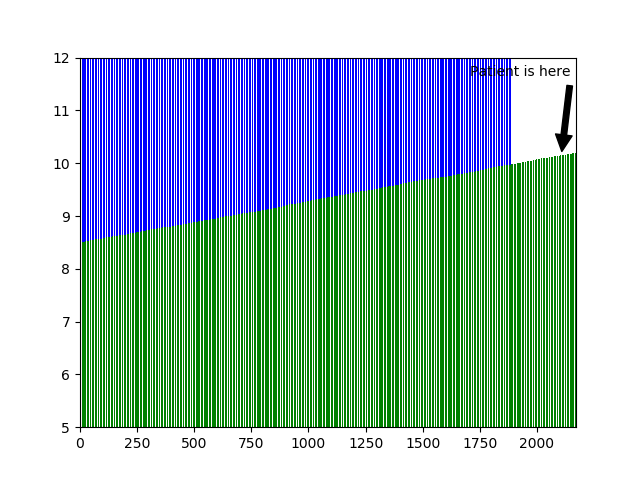
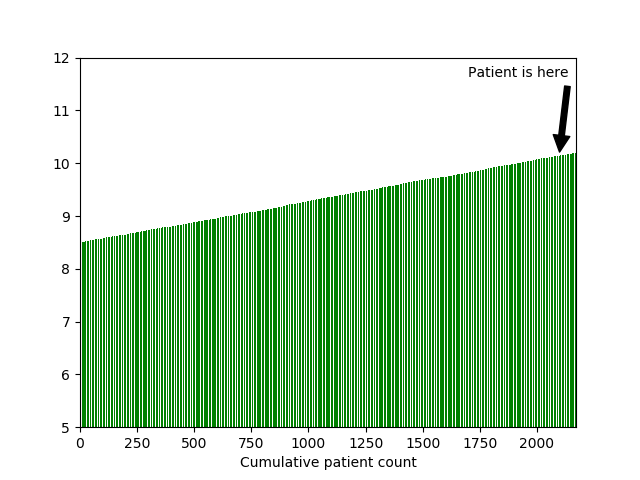
fixed graph

Changed region(s): [[0.125, 0.125, 0.9062, 0.5], [0.375, 0.9375, 0.6562, 1.0]]

diff --git a/DurHack/templates/analysis.html b/DurHack/templates/analysis.html
@@ -7,9 +7,10 @@
 <h3> Patient's Calcium </h3>
 <img src = "../static/gCal.png" class = "img-fluid" alt="Responsive image">
 <br><br>
-<h3> Patient's 
+<h3> Patient's Cholestorol </h3>
 <img src = "../static/gCol.png" class = "img-fluid" alt="Responsive image">
 <br>
+<h3> Patient's Sodium </h3>
 <img src = "../static/gSod.png" class = "img-fluid" alt="Responsive image">
 
 </html>

diff --git a/DurHack/server.py b/DurHack/server.py
@@ -34,14 +34,14 @@ def patientData():
 	dict = {}
 	fn = request.form.get("filename")
 	filename = "./patients/" + fn.strip() + '.json'
-	dict["observations"] = Observation(filename)
-	dict["encounters"] = Encounter(filename)
-	dict["medication_requests"] = mRequest(filename)
-	dict["goals"] = Goal(filename)
-	dict["procedures"] = Procedure(filename)
-	dict["care_plans"] = cPlan(filename)
-	dict["condition"] = condition(filename)
-	dict["diagnostic_report"] = dReport(filename)
+	dict["Observations"] = Observation(filename)
+	dict["Encounters"] = Encounter(filename)
+	dict["Medication Requests"] = mRequest(filename)
+	dict["Goals"] = Goal(filename)
+	dict["Procedures"] = Procedure(filename)
+	dict["Care Plans"] = cPlan(filename)
+	dict["Condition"] = condition(filename)
+	dict["Diagnostic Report"] = dReport(filename)
 	data["patient_data"] = basicInfo(filename)[0]
 	data["dict"] = dict
 	return jsonify(data)
@@ -52,7 +52,7 @@ def analysis():
 	fn = request.values.get("filename")
 	filename = fn.strip() + '.json'
 	#remove previous files
-	for f in ['static/gCol.png','/static/gCal.png','/static/gSod.png']:
+	for f in ['static/gCol.png','static/gCal.png','static/gSod.png']:
 		if os.path.exists(f):
 			os.remove(f)
 	

diff --git a/DurHack/graph.py b/DurHack/graph.py
@@ -50,6 +50,7 @@ def graphChol(person):
 	
 	plt.bar(xcoords, ycoords, 1/1.5,color="blue")
 	plt.savefig('static/gCol.png')
+	plt.close()
 
 def graphSodium(person):
 	z= 0
@@ -94,8 +95,10 @@ def graphSodium(person):
 	arrowprops=dict(facecolor='black', shrink=0.05)
 	)
 	plt.axis([0,xcoords[-1],50,155])
+	plt.xlabel('Cumulative patient count')
 	plt.bar(xcoords, ycoords, 1/1.5,color="red")
 	plt.savefig('static/gSod.png')
+	plt.close()
 
 def graphCalc(person):
 	freq = {}
@@ -140,5 +143,7 @@ def graphCalc(person):
 	arrowprops=dict(facecolor='black', shrink=0.05)
 	)
 	plt.axis([0,xcoords[-1],5,12])
+	plt.xlabel('Cumulative patient count')
 	plt.bar(xcoords, ycoords, 1/1.5,color="green")
 	plt.savefig('static/gCal.png')
+	plt.close()
